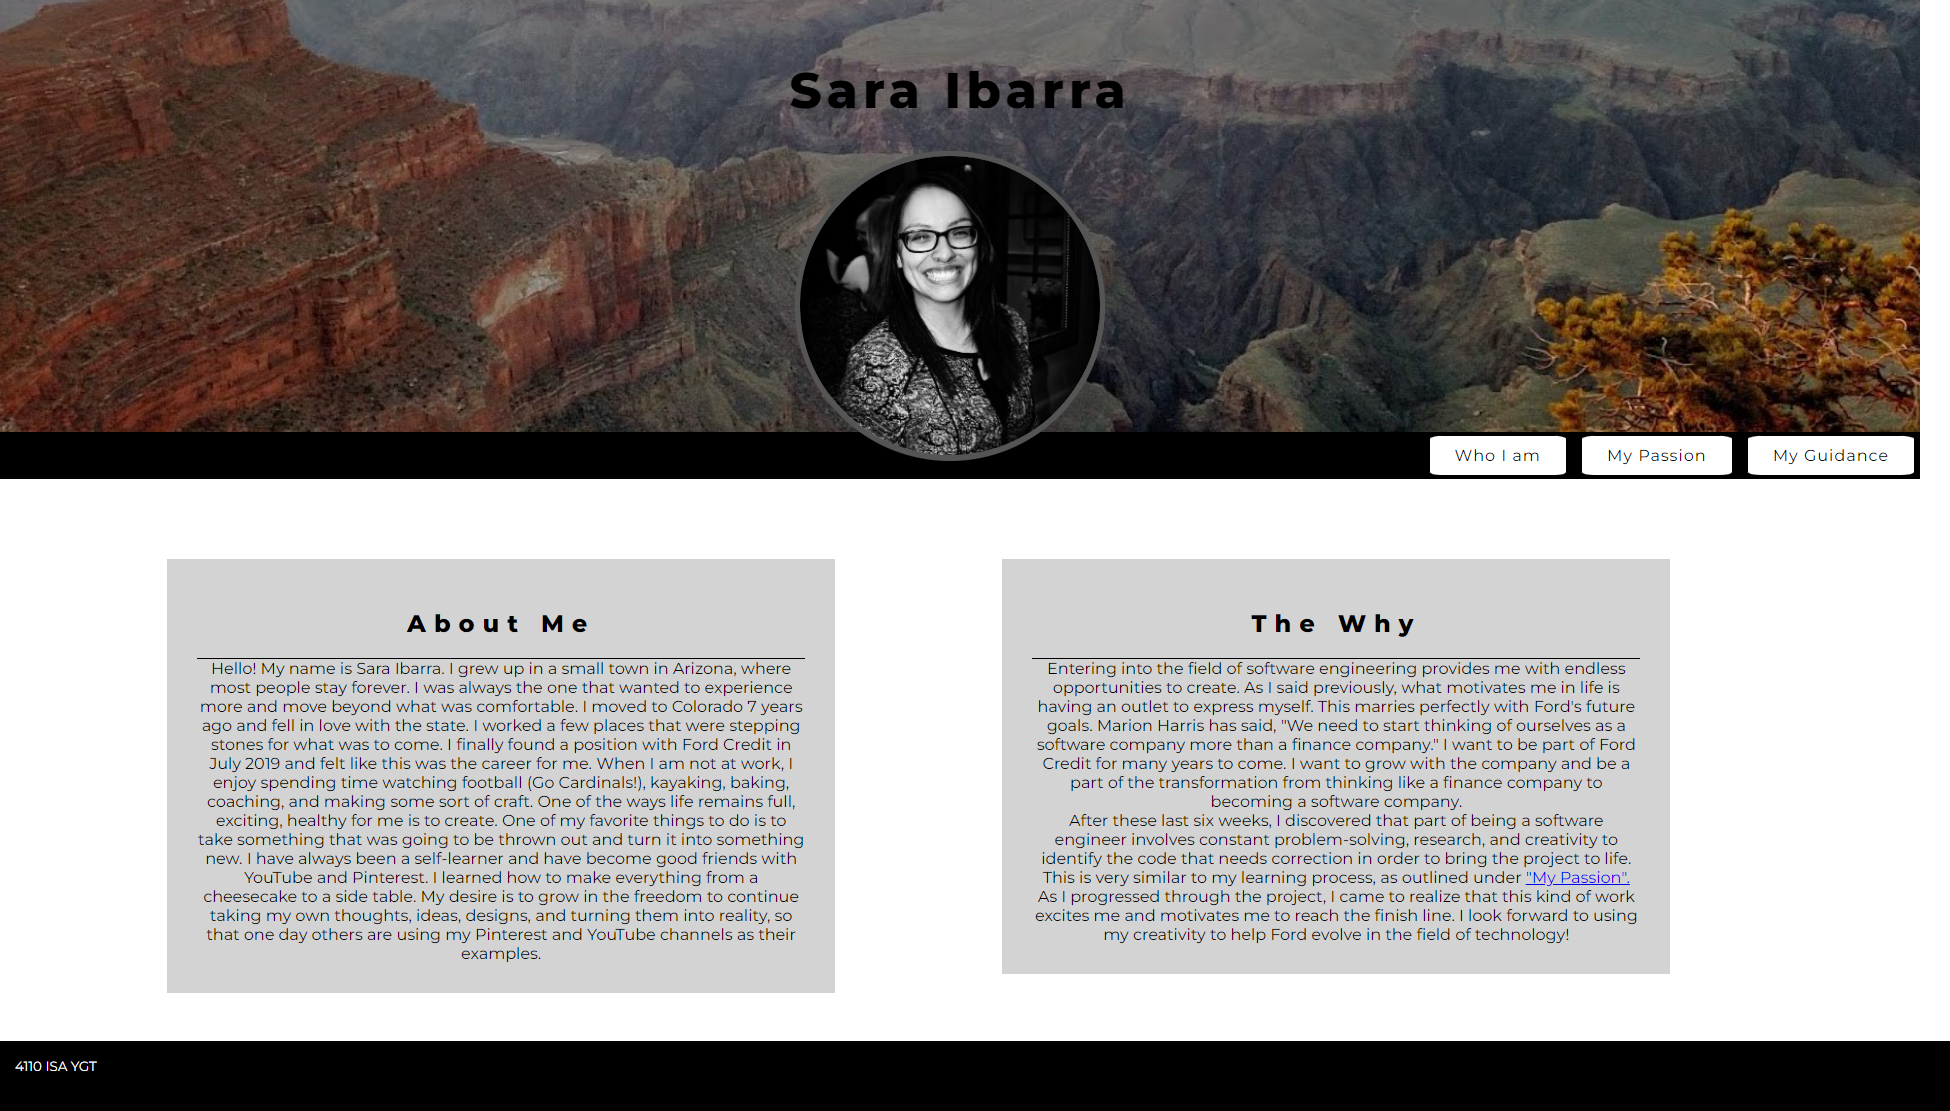
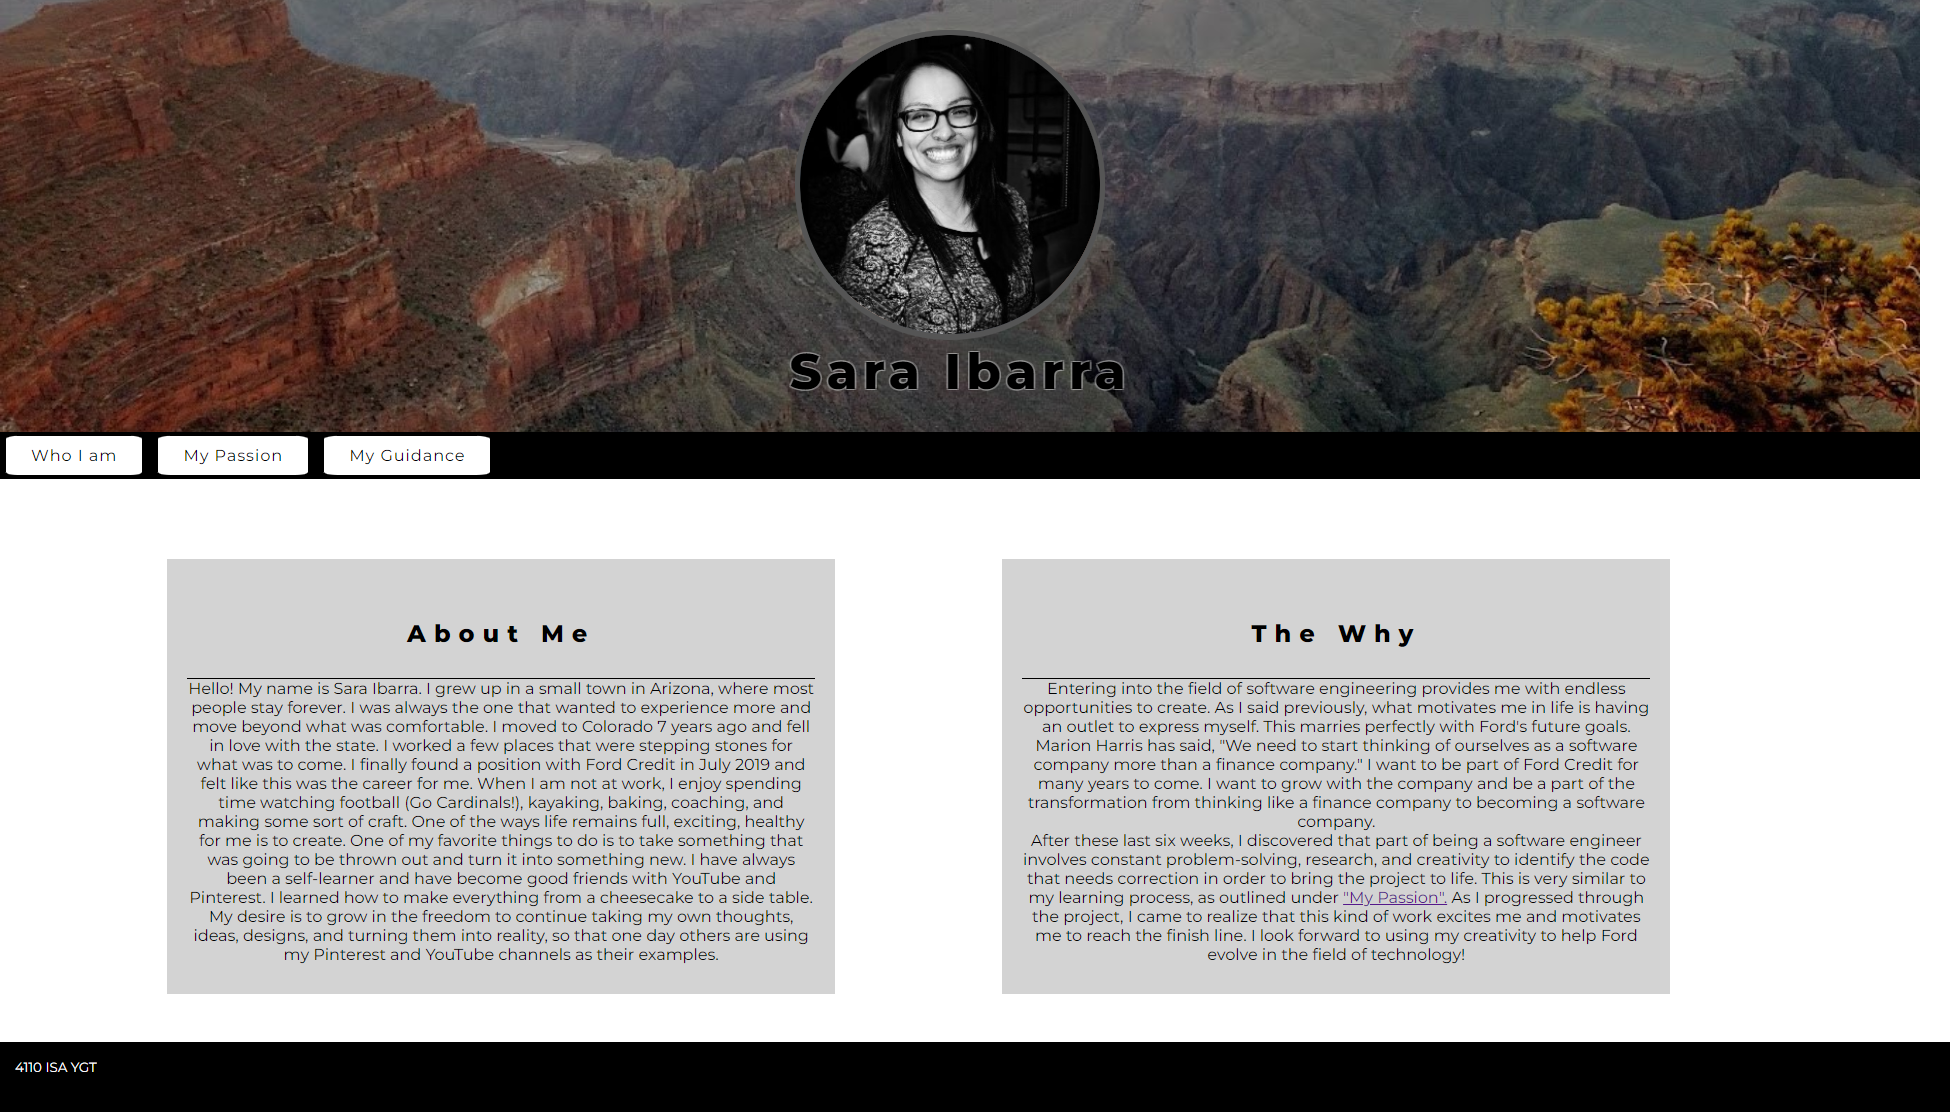
Revisions pt 7

diff --git a/revisions.html b/revisions.html
@@ -40,47 +40,65 @@
             text-align: center;
             padding: 30px 10px;
         }
-        table {
+        #table1 {
             margin-left: 5%;
             padding-top: 80px;
+            margin-right: 4%;
+          
+        }
+
+        #table2 {
+            margin-left: 5%;
+            padding: 80px 0;
+            margin-right: 5%;
             
-            
+          
         }
         #box1 {
             background-color: #DAA967;
             padding: 0 80px;
+            
             padding-right: 50px;
             box-shadow: 10px 10px 5px gray;
             min-width: 300px;
-            width: 50%;
+            width: 33.33%;
         }
 
-        #box2 {
+        #box2, #box5 {
             width: auto;
             text-align: center;
             margin-left: 5%;
             height: 500px;
+            
         }
         #box4 {
             background-color: rgb(166, 159, 160, 0.5);
-            padding: 50px 80px;
+            padding: 0 80px;
             padding-right: 50px;
             box-shadow: 10px 10px 5px gray;
             min-width: 300px;
-            width: 50%;
+            width: 33.33%;
         }
 
-        #box3 {
+        #box3, #box6 {
             width: auto;
             text-align: center;
             margin-left: 5%;
-            padding: 80px
+            height: 500px; 
         }
-
-
+        #bottom{
+            width: 100%;
+            background-color: #DAA967;
+            padding:100px 0;
+            text-align: center;
+            font-weight: bold;
+        }
+        figcaption {
+            font-size: 30px;
+            padding-bottom: 20px;
+            font-weight: bold;
+        }
     </style>
-
-
 </head>
 
 <body>
@@ -89,7 +107,7 @@
             <nav>
 
                 <ul>
-                    <li><a href="index.html" class="btn 1">Who I Am</a></li>
+                    <li><a href="index.html" class="btn 1">My Story</a></li>
                     <li><a href="creative.html" class="btn 2">My Passion</a></li>
                     <li><a href="revisions.html" class="btn 3">My Guidance</a></li>
                 </ul>
@@ -106,16 +124,16 @@
                   <p>Chatoyre, a video editor/graphic designer and Valentina, a television program producer.
                 </p>
             </div>
-            <table id="top">
+            <table id="table1">
                 <tr>
                     <td id="box1">
-                        <h2>"About me" revisions</h2>
+                        <h2>"My Story" Revisions</h2>
                         <h4>Chatoyre's layout suggestions:</h4>
                         <ul>
                             <li>Choose a color palette</li>
                             <li>Left justify all paragraphs</li>
                             <li>Add space between paragraphs</li>
-                            <li>Nav bar is ok at the bottom, but try placing at the top</li>
+                            <li>Navigation bar is fine at the bottom, but try placing it at the top</li>
                         </ul>
                         <br>
                         <h4>Valentina's layout suggestions:</h4>
@@ -127,20 +145,38 @@
                         </ul>
                     </td>
                     <td id="box2">
+                        <figcaption>Before</figcaption>
                         <a href="Images/index1.png" target="_blank">
-                        <img src="Images/index1.png" style="width: 500px;"></td>
+                        <img src="Images/index1.png" style="width: 450px; height: 275px; ">
+                       
                     </a>
+                    
+                    <td id="box5">
+                        <figcaption>After</figcaption>
+                        <a href="Images/Final1.png" target="_blank">
+                        <img src="Images/Final1.png" style="width: 400px;">
+                    </a>
+                   
+                </td>
+                </td>
                 </tr>
                 </table>
-                <table>
+                <table id="table2">
                 <tr>
                     <td id="box3">
+                        <figcaption>Before</figcaption>
                         <a href="Images/Revision3.png" target="_blank">
-                            <img src="Images/Revision3.png" style="width: 300px;"></td>
-                        
+                            <img src="Images/Revision3.png" style="width: 300px;">
+                        </a>
+                    </td>
+                    <td id="box6">
+                        <figcaption>After</figcaption>
+                        <a href="Images/Final.png" target="_blank">
+                            <img src="Images/Final.png" style="width: 300px; height: 475px;">
+                        </a>
+                    </td>
                     <td id="box4">
-                        
-                        <h2>"My Passion" revisons</h2>
+                        <h2>"My Passion" Revisions</h2>
                         <h4>Chatoyre's layout suggestions:</h4>
                         <ul>
                             <li>Choose a color palette</li>
@@ -151,15 +187,20 @@
                         <br>
                         <h4>Valentina's layout suggestions:</h4>
                         <ul>
-                            <li>Keep same color and theme thorughout all pages</li>
+                            <li>Keep same color and theme throughout all pages</li>
                             <li>Intro font size too small, needs to be more defined</li>
                             <li>Keep same header image on all pages</li>
                             <li>Make sure all elements are centered</li>
                         </ul>
                     </td>
-                    </a>
                 </tr>
             </table>
+            <div id="bottom">
+                <div>
+                <p>After taking all of the suggestions into consideration and spending time 
+                    re-evaluating my design choices, I finally have a finished product!
+                </p>
+            </div>
         </main>
     </div>
 </body>

diff --git a/creative.html b/creative.html
@@ -110,7 +110,7 @@
         <header>
             <nav>
                 <ul>
-                    <li><a href="index.html" class="btn 1">Who I Am</a></li>
+                    <li><a href="index.html" class="btn 1">My Story</a></li>
                     <li><a href="creative.html" class="btn 2">My Passion</a></li>
                     <li><a href="revisions.html" class="btn 3">My Guidance</a></li>
                 </ul>

diff --git a/index.html b/index.html
@@ -129,7 +129,7 @@
             <nav>
 
                 <ul>
-                    <li><a href="index.html" class="btn 1">Who I Am</a></li>
+                    <li><a href="index.html" class="btn 1">My Story</a></li>
                     <li><a href="creative.html" class="btn 2">My Passion</a></li>
                     <li><a href="revisions.html" class="btn 3">My Guidance</a></li>
                 </ul>

diff --git a/style.css b/style.css
@@ -52,6 +52,7 @@
             border-radius: 8%;
             letter-spacing: 1px;
             transition-duration: 0.4s;
+            width: 120px;
 
         }
 
